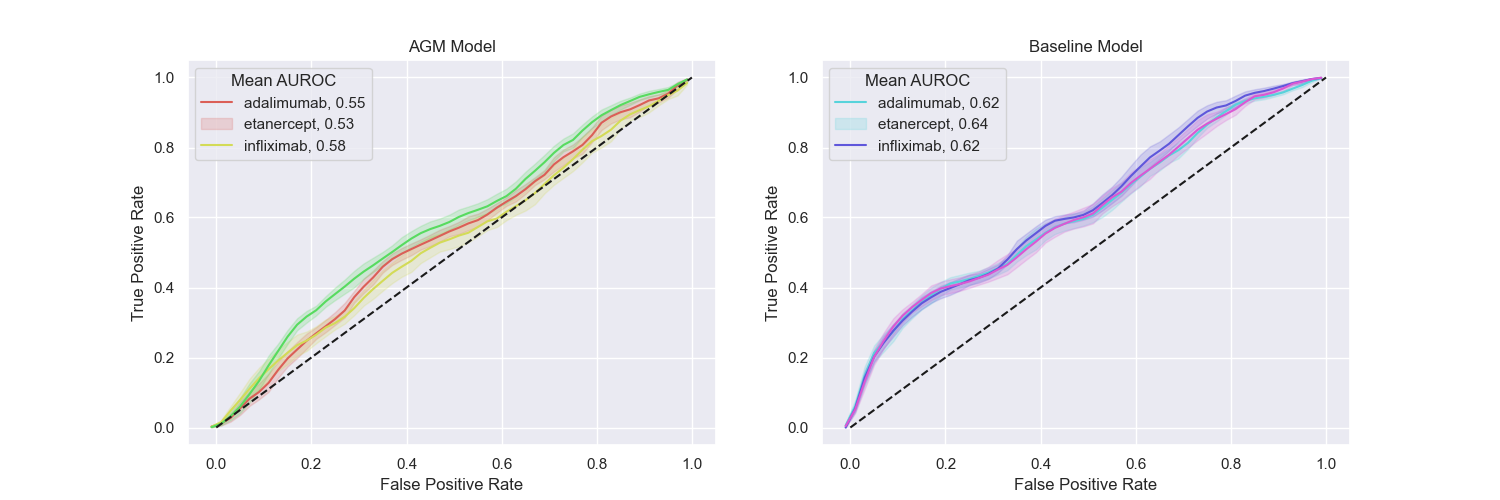
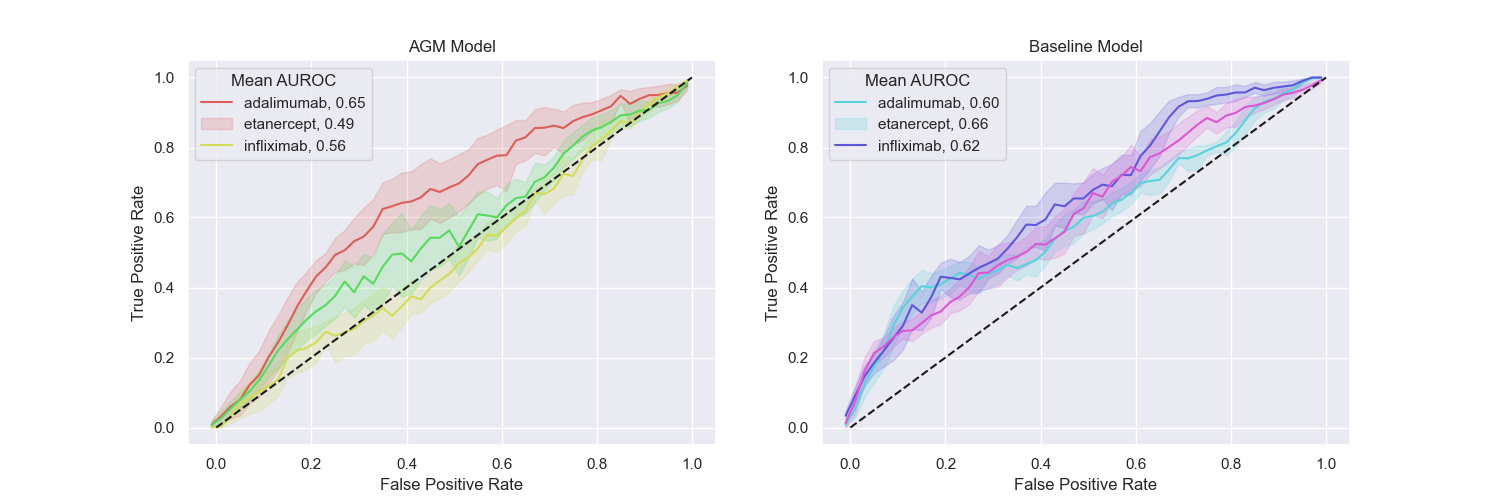
add plot for optimal kernel length

Changed region(s): [[0.1227, 0.15, 0.46, 0.87], [0.552, 0.15, 0.8893, 0.84], [0.2147, 0.24, 0.2453, 0.27]]

diff --git a/RAantiTNF/gpr_guanlab.py b/RAantiTNF/gpr_guanlab.py
@@ -50,8 +50,36 @@ PLOT_DICT = {
     "auroc": "auroc_results.png",
     "accuracy": "accuracy_results.png",
     "roccurve": "roccurve_results.png",
+    "kernel": "kernel_results.png",
 }
 RESULTS_PATH = Path("results/GPR_guanlab/")
+REGEX_PATTERNS = {
+    "Full": r".",
+    "Baseline": r"baselineDAS",
+    "AGM": r"Age|Gender|Mtx",
+    "AGM": r"Age|Gender|Mtx",
+    "G-free": r"^(?!Gender).*$",
+    "Genetic": r"^rs",
+}
+SIT_OUT_COLMNS = {
+    "Response.deltaDAS",
+    "Cohort",
+    "Batch",
+    "Response.EULAR",
+    "Response.NonResp",
+    "ID",
+    "TNF-drug",
+    "tt_split",
+    "Drug",
+}
+Y_FEATURE = ["Response.deltaDAS"]
+KERNEL_DICT = {
+    "Full": 12,
+    "Baseline": 3,
+    "AGM": r"Age|Gender|Mtx",
+    "G-free": r"^(?!Gender).*$",
+    "Genetic": r"^rs",
+}
 
 
 def main(
@@ -63,20 +91,22 @@ def main(
     plot_dict=PLOT_DICT,
 ):
     # create our model with all default parameters
-    raw_results = run_cross_validation(model, hyper_space, kernels, random_state)
+    raw_results, kernel_results = run_cross_validation(
+        model, hyper_space, kernels, random_state
+    )
     stat_results = produce_statistics(raw_results)
 
     roc_results = prep_roc_curve(raw_results)
 
     # visualize results + plot
-    plots = visualize_results(raw_results, stat_results, roc_results)
+    plots = visualize_results(raw_results, stat_results, roc_results, kernel_results)
 
     # save to output directory
     for title, fig in plots.items():
         fig.savefig(str(results_path / plot_dict[title]))
 
 
-def visualize_results(raw_results, stat_results, roc_results):
+def visualize_results(raw_results, stat_results, roc_results, kernel_results):
     plots = {}
     sns.set_theme()
 
@@ -163,6 +193,25 @@ def visualize_results(raw_results, stat_results, roc_results):
 
     plots["roccurve"] = fig
 
+    fig, axes = plt.subplots(1, kernel_results["drug_model"].nunique(), figsize=(15, 5))
+    for (title, group), ax in zip(
+        kernel_results.groupby("drug_model", as_index=False), axes
+    ):
+        f = sns.barplot(
+            data=group,
+            x="feature",
+            y="length",
+            palette=palette,
+            order=["Full", "Baseline", "AGM", "G-free", "Genetic"],
+            ax=ax,
+        )
+        f.set_title(f"Optimized Kernel Length {title}")
+        f.set_yscale("log")
+        for container in f.containers:
+            f.bar_label(container, label_type="center", fmt="%.3f")
+    fig.tight_layout()
+    plots["kernel"] = fig
+
     return plots
 
 
@@ -225,7 +274,7 @@ def prep_roc_curve(raw_results):
 
 
 def choose_best_model(X, y, model, hyper_space, kernels, random_state):
-    return GaussianProcessRegressor(kernel=RBF(1000), alpha=4)
+    return GaussianProcessRegressor(kernel=RBF(), alpha=4)
     kernel_best = []
     for kernel in kernels:
         opt = BayesSearchCV(
@@ -267,7 +316,7 @@ def produce_statistics(raw_results: pd.DataFrame):
             ]
         )
 
-    raw_results["prob_hat"] = 1 - raw_results["y_hat"] / THRESHOLD
+    raw_results["prob_hat"] = raw_results["y_hat"] / raw_results["das_real"]
     stat_results = (
         raw_results.groupby(["drug_model", "samples", "feature"], as_index=False)
         .apply(calc_r)
@@ -276,9 +325,10 @@ def produce_statistics(raw_results: pd.DataFrame):
     return stat_results
 
 
-@cachewrapper("cache", "guanlab_exp_results")
+@cachewrapper("cache", ("guanlab_exp_results", "guanlab_kernel_info"))
 def run_cross_validation(model, hyper_space, kernels, random_state):
     results = []
+    kernel_info = []
     for (
         drug,
         feature,
@@ -304,6 +354,8 @@ def run_cross_validation(model, hyper_space, kernels, random_state):
 
             # fit + predict model
             gpr_i.fit(_X_train, _y_train)
+            print(f"{drug}, {feature} {gpr_i.kernel_}")
+
             y_hat = yscaler.inverse_transform(gpr_i.predict(_X_test)).flatten()
             _y_test = yscaler.inverse_transform(_y_test).flatten()
 
@@ -319,9 +371,25 @@ def run_cross_validation(model, hyper_space, kernels, random_state):
             assert len(cat_hat) == len(_cat_test)
 
             _results_i = list(
-                zip(drug_list, features, y_hat, _y_test, cat_hat, _cat_test, samples)
+                zip(
+                    drug_list,
+                    features,
+                    y_hat,
+                    _y_test,
+                    cat_hat,
+                    _cat_test,
+                    samples,
+                    _das_test,
+                )
             )
             results.extend(_results_i)
+
+            length = gpr_i.kernel_.length_scale
+            _kernelinfo_i = list(
+                zip([drug] * 1, [feature] * 1, [sample] * 1, [length] * 1)
+            )
+            kernel_info.extend(_kernelinfo_i)
+
     results_df = pd.DataFrame(
         results,
         columns=[
@@ -332,32 +400,16 @@ def run_cross_validation(model, hyper_space, kernels, random_state):
             "cat_hat",
             "cat_real",
             "samples",
+            "das_real",
         ],
     )
-    return results_df
+    kernel_df = pd.DataFrame(
+        kernel_info, columns=["drug_model", "feature", "samples", "length"]
+    )
+    return results_df, kernel_df
 
 
 def data_generator(path=Path(META_PATH), snp_dict=SNP_BY_DRUG, test_index=TEST_INDEX):
-    REGEX_PATTERNS = {
-        "Full": r".",
-        "Baseline": r"baselineDAS",
-        "AGM": r"Age|Gender|Mtx",
-        "AGM": r"Age|Gender|Mtx",
-        "G-free": r"^(?!Gender).*$",
-        "Genetic": r"^rs",
-    }
-    SIT_OUT_COLMNS = {
-        "Response.deltaDAS",
-        "Cohort",
-        "Batch",
-        "Response.EULAR",
-        "Response.NonResp",
-        "ID",
-        "TNF-drug",
-        "tt_split",
-        "Drug",
-    }
-    Y_FEATURE = ["Response.deltaDAS"]
 
     # either create data or read from cache
     data = create_drug_df(path, snp_dict)
